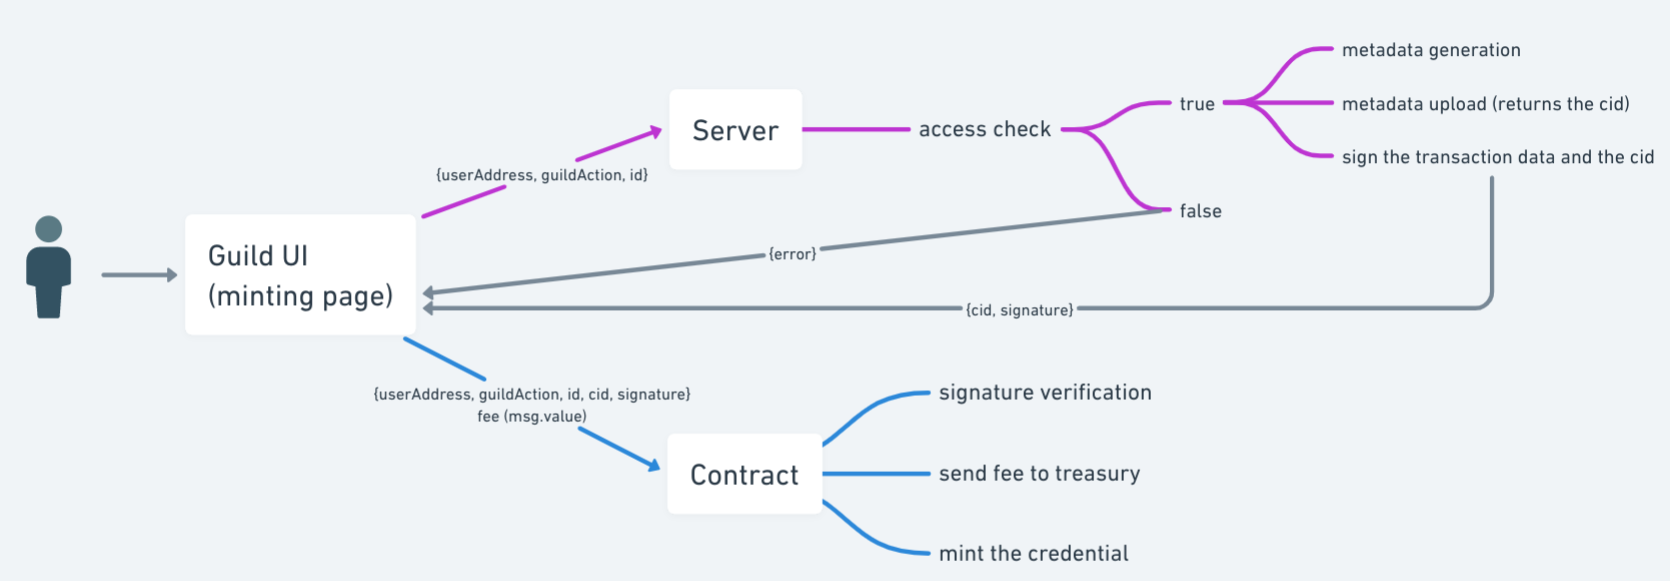
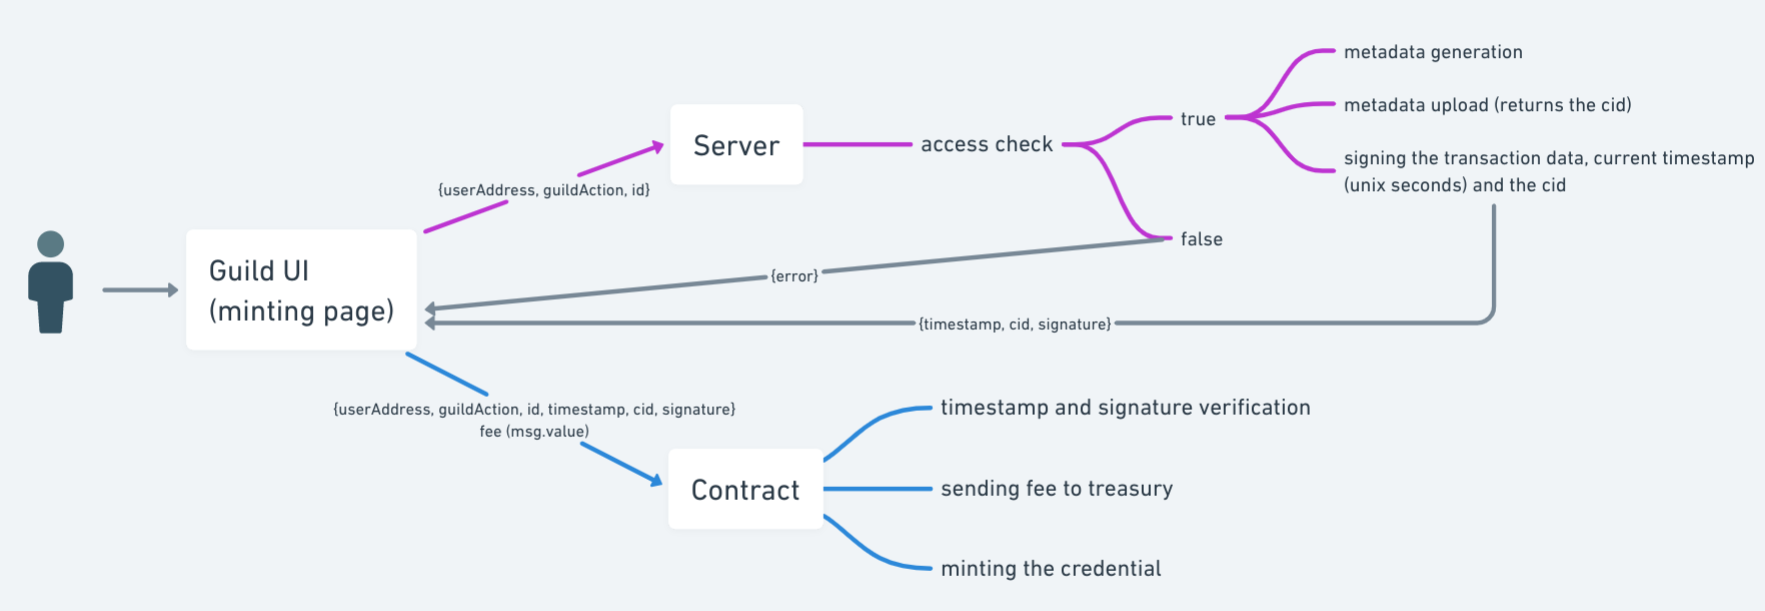
Add timestamp check

Changed region(s): [[0.1246, 0.062, 0.9964, 0.9914], [0.0623, 0.4028, 0.1868, 0.4957], [0.0, 0.4028, 0.0311, 0.4337]]

diff --git a/docs/DESIGN.md b/docs/DESIGN.md
@@ -23,9 +23,11 @@ The server runs either a separate service or it's a part of Guild's [core](https
 - the server:
   - checks the access (probably an api call to the core or direct db access)
   - generates the metadata and uploads/pins it on IPFS
-  - signs the transaction data using a private key and returns the signature alongside the cid
+  - signs the transaction data + current timestamp (unix seconds) using a private key
+  - returns the timestamp, the cid and the signature
 - the user initiates a transaction to the contract. Supplies the signed data, the signature and the fee
 - the contract:
+  - checks the timestamp (reverts if it's older than 1 hour)
   - verifies the signature (reverts if it's invalid)
   - updates the claimedTokens mapping
   - sends the fee to the treasury
